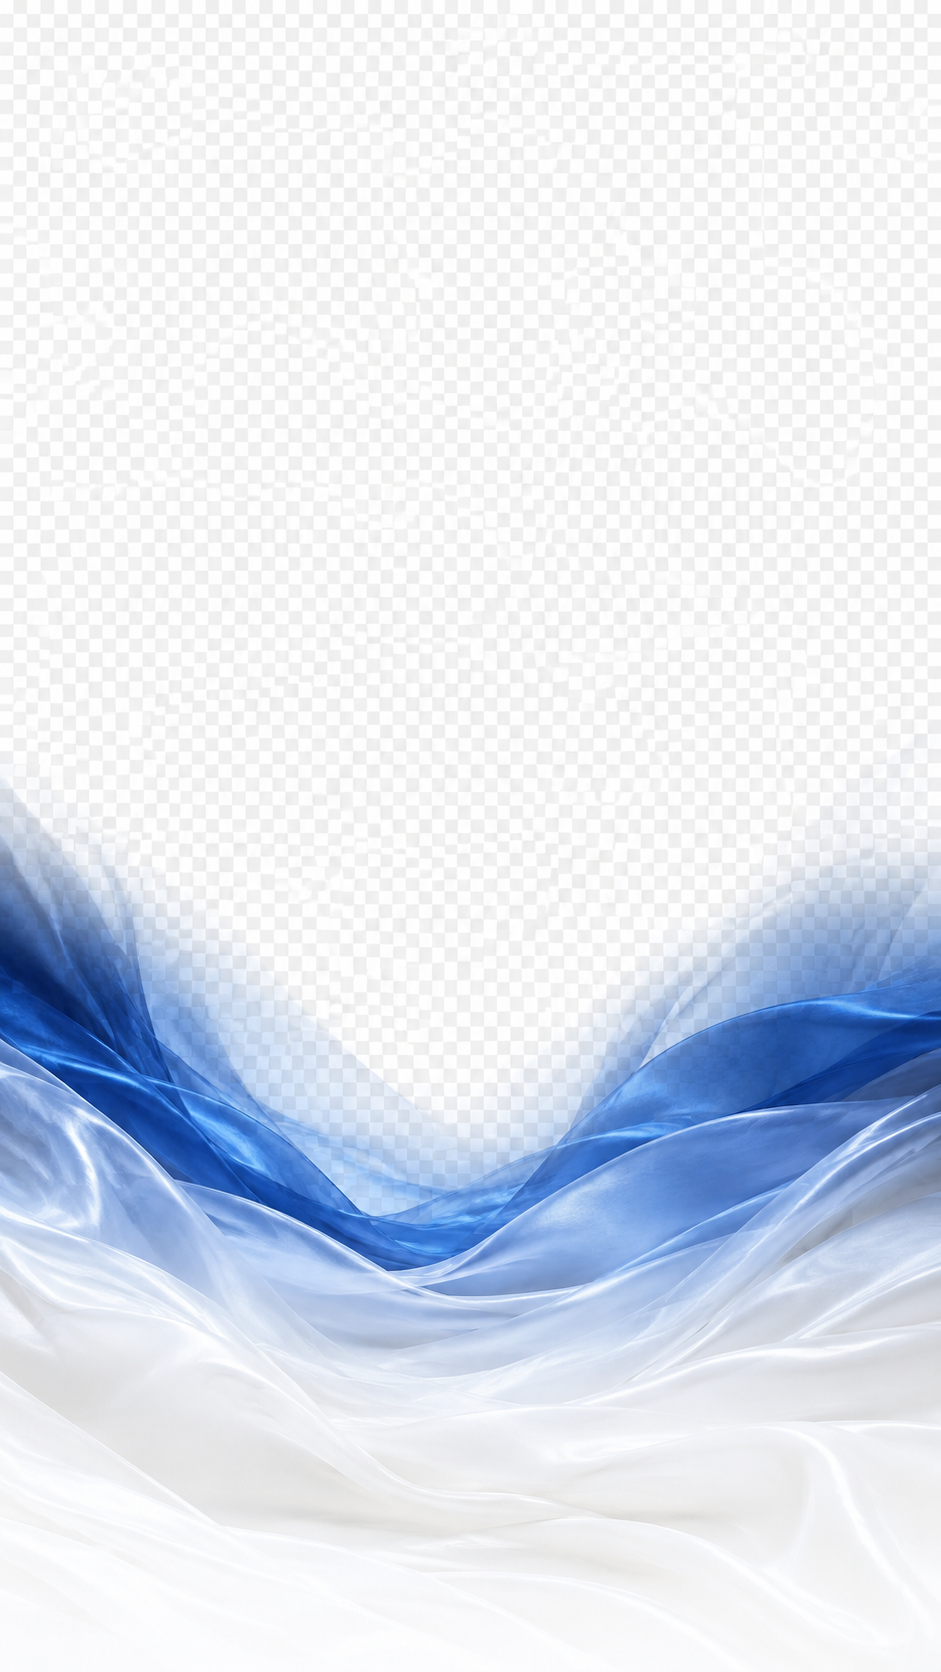
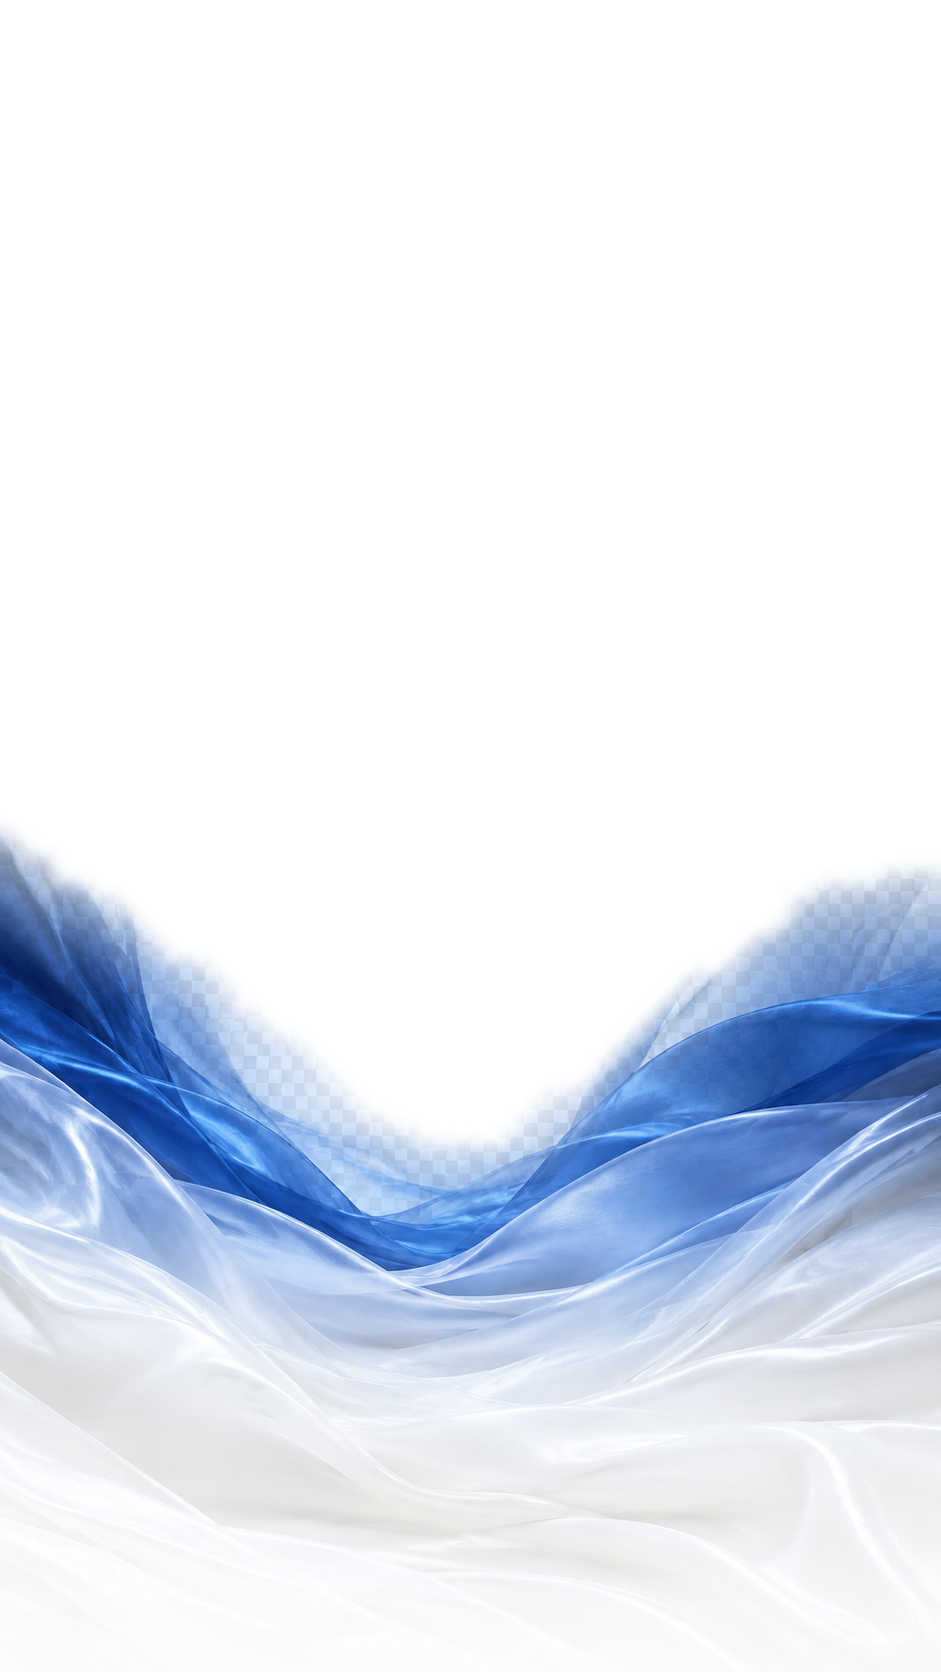
Repositionne le Hero et ajoute la séquence de voiles après la photo
- Prénoms remontés et réduits pour tenir sur une ligne, phrase remontée
  au même niveau (repères rouge/violet)
- Voile bleu/blanc ajouté en bas de la photo du Hero, au niveau du
  repère bleu ; la transparence du PNG source (quadrillage cassé) a
  été reconstruite pour ne plus jamais laisser voir le damier
- Nouvelle séquence après le Hero : bandeau blanc drapé → photo des
  mains → image bleue au voile blanc et doré (SilkBand réutilisable),
  le reste du parcours restant masqué comme avant

Changed region(s): [[0.0, 0.4665, 1.0, 0.6842]]

diff --git a/src/components/invitation/HeroCouple/HeroCouple.module.css b/src/components/invitation/HeroCouple/HeroCouple.module.css
@@ -84,10 +84,29 @@
   66% { transform: translate3d(-1.5%, 1.5%, 0) scale(1.015); }
 }
 
+/* Voile bleu et blanc (image PNG à vraie transparence), débute au repère bas de la photo. */
+.veilBand {
+  position: absolute;
+  z-index: 4;
+  inset: 62% 0 0;
+  overflow: hidden;
+  pointer-events: none;
+}
+
+.veilBandImg {
+  position: absolute;
+  inset: 0;
+  width: 100%;
+  height: 100%;
+  object-fit: cover;
+  object-position: center 55%;
+  opacity: 0.92;
+}
+
 /* Particules + étoiles à quatre branches, montent doucement depuis le voile. */
 .sparkles {
   position: absolute;
-  z-index: 4;
+  z-index: 5;
   inset: 40% 0 0;
   pointer-events: none;
   overflow: hidden;
@@ -125,7 +144,7 @@
 
 .silkTransition {
   position: absolute;
-  z-index: 5;
+  z-index: 6;
   inset: auto 0 0;
   height: 30%;
   pointer-events: none;
@@ -141,9 +160,9 @@
 
 .identity {
   position: absolute;
-  z-index: 6;
+  z-index: 7;
   left: 50%;
-  bottom: clamp(3.6rem, 8vh, 6.4rem);
+  top: 56%;
   width: min(92%, 900px);
   transform: translateX(-50%);
   text-align: center;
@@ -151,10 +170,11 @@
 
 .names {
   margin: 0;
-  font: 400 clamp(4rem, 11.5vw, 8.4rem) / 0.95 var(--font-script);
+  font: 400 clamp(2.75rem, 9vw, 5.4rem) / 0.95 var(--font-script);
   letter-spacing: 0.01em;
   color: var(--champagne);
   text-shadow: 0 2px 18px rgba(5, 11, 30, 0.28);
+  white-space: nowrap;
 }
 
 /* Effet "écriture" : le nom se révèle de gauche à droite quand le hero entre
@@ -175,7 +195,7 @@
 }
 
 .tagline {
-  margin: 0.9rem 0 0;
+  margin: clamp(0.5rem, 1.6vw, 0.9rem) 0 0;
   font-family: var(--font-display);
   font-style: italic;
   font-size: clamp(1rem, 2vw, 1.3rem);
@@ -195,7 +215,8 @@
 
 @media (max-width: 700px) {
   .veil { inset: 56% 0 0; }
-  .identity { bottom: 3.4rem; }
+  .veilBand { inset: 64% 0 0; }
+  .identity { top: 55%; }
 }
 
 @media (prefers-reduced-motion: reduce) {

diff --git a/src/app/App.tsx b/src/app/App.tsx
@@ -1,5 +1,6 @@
 import { IntroMaison } from '../components/invitation/IntroMaison/IntroMaison';
 import { HeroCouple } from '../components/invitation/HeroCouple/HeroCouple';
+import { SilkBand } from '../components/invitation/SilkBand/SilkBand';
 import { EditorialBanner } from '../components/invitation/EditorialBanner/EditorialBanner';
 import { HandsSection } from '../components/invitation/HandsSection/HandsSection';
 import { CountdownSection } from '../components/invitation/CountdownSection/CountdownSection';
@@ -24,17 +25,19 @@ import { useClient } from '../context/ClientContext';
 const SHOW_SECTIONS_AFTER_HERO = false;
 
 export function App() {
-  const { venuesConfig, invitationConfig } = useClient();
+  const { venuesConfig, invitationConfig, mediaConfig } = useClient();
   const hasSecondVerse = invitationConfig.verses.length > 1;
 
   return (
     <main>
       <IntroMaison />
       <HeroCouple />
+      <SilkBand src={mediaConfig.hero.veilTop} />
+      <HandsSection />
+      <SilkBand src={mediaConfig.hero.silkBlueIvory} />
       {SHOW_SECTIONS_AFTER_HERO && (
         <>
           <EditorialBanner />
-          <HandsSection />
           <CountdownSection />
           <BibleVerse verseIndex={0} />
           <StorySection />

diff --git a/src/components/invitation/HeroCouple/HeroCouple.tsx b/src/components/invitation/HeroCouple/HeroCouple.tsx
@@ -64,6 +64,10 @@ export function HeroCouple() {
           <span className={styles.veilLayerB} />
         </div>
 
+        <div className={styles.veilBand} aria-hidden="true">
+          <img className={styles.veilBandImg} src={mediaConfig.hero.veilBottom} alt="" draggable={false} />
+        </div>
+
         <div className={styles.sparkles} aria-hidden="true">
           {SPARKLES.map((s, i) => (
             <span

diff --git a/src/components/invitation/SilkBand/SilkBand.tsx b/src/components/invitation/SilkBand/SilkBand.tsx
@@ -1,0 +1,14 @@
+import styles from './SilkBand.module.css';
+
+type Props = {
+  src: string;
+  alt?: string;
+};
+
+export function SilkBand({ src, alt = '' }: Props) {
+  return (
+    <div className={styles.root} aria-hidden={alt === '' ? 'true' : undefined}>
+      <img className={styles.image} src={src} alt={alt} draggable={false} loading="lazy" />
+    </div>
+  );
+}

diff --git a/src/components/invitation/SilkBand/SilkBand.module.css b/src/components/invitation/SilkBand/SilkBand.module.css
@@ -1,0 +1,15 @@
+.root {
+  position: relative;
+  overflow: hidden;
+  height: clamp(180px, 34vw, 340px);
+  background: var(--ivory);
+}
+
+.image {
+  position: absolute;
+  inset: 0;
+  width: 100%;
+  height: 100%;
+  object-fit: cover;
+  object-position: center;
+}
